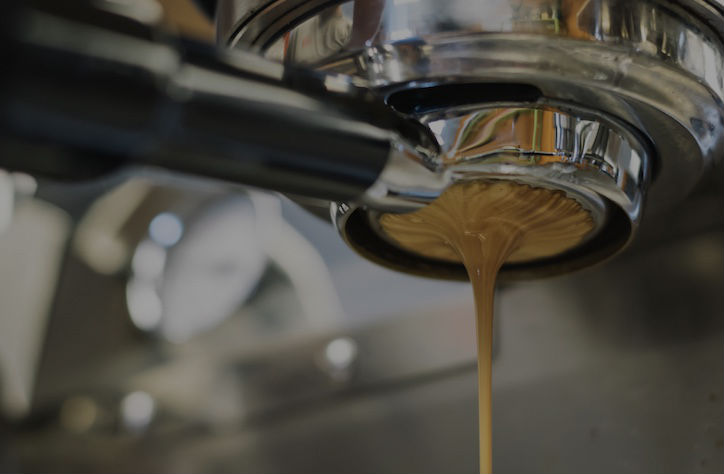
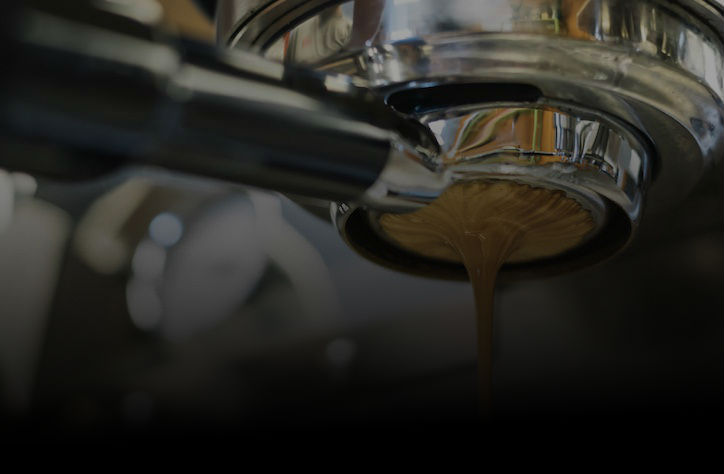
이쁜 css 추가 height 수정 jpg 수정

diff --git a/src/main/webapp/resources/css/soulcoffee.css b/src/main/webapp/resources/css/soulcoffee.css
@@ -110,21 +110,15 @@ footer .glyphicon {
     position: fixed; /* Set the navbar to fixed position */
     top: 0; /* Position the navbar at the top of the page */
     width: 100%; /* Full width */
-    height: 300px;
+    height: 250px;
     background-size: 100%;
-}
-.bottom_gradient{
-    background: url("/resources/img/back_gradient.png") no-repeat bottom;
-    width: 100%; /* Full width */
-    height: 300px;
-    background-size: 100%;text-align:center; vertical-align:middle;
-
+    text-align:center; vertical-align:middle;
 }
 .main {
-     margin-top: 300px; /* Add a top margin to avoid content overlay */
+     margin-top: 240px; /* Add a top margin to avoid content overlay */
  }
 .center_title{
-    margin-top: 100px;
+    margin-top: 50px;
     width:100%; height:50px;
     display:inline-block;
 
